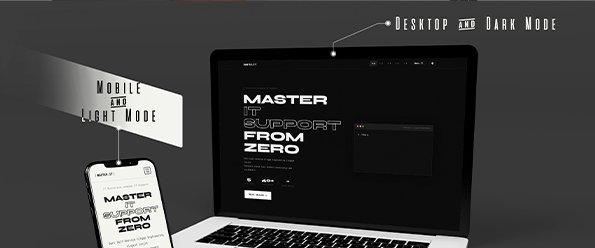
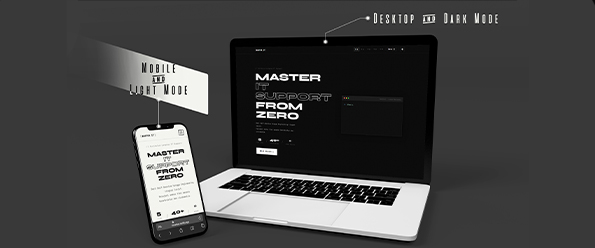
Add project from gdrive

diff --git a/src/data/projects.js b/src/data/projects.js
@@ -10,6 +10,7 @@ export const projects = [
     categories: ["Data Analyst", "Data Visualization"],
     update: "30 April 2026",
     kaggle: "https://shorturl.at/8YAQv",
+    gdrive: "#",
     demoUrl: "#",
     github: "https://portfolio-gia1.vercel.app/",
     behance: "#",
@@ -23,6 +24,7 @@ export const projects = [
     categories: ["Web Development", "Portfolio"],
     update: "04 Mei 2026",
     kaggle:"#",
+    gdrive: "#",
     demoUrl: "https://portfolio-gia1.vercel.app/",
     github: "https://github.com/degia/Portfolio-v1",
     behance: "#",
@@ -36,6 +38,7 @@ export const projects = [
     categories: ["Web Development", "UI/UX", "Portfolio"],
     update: "04 Mei 2026",
     kaggle:"#",
+    gdrive: "#",
     demoUrl: "https://portfolio-gia2.vercel.app/",
     github: "https://github.com/degia/Portfolio-v2",
     behance: "#",
@@ -49,6 +52,7 @@ export const projects = [
     categories: ["Design"],
     update: "04 Mei 2026",
     kaggle:"#",
+    gdrive: "#",
     demoUrl: "#",
     github: "#",
     behance: "https://www.behance.net/nuvista",
@@ -62,21 +66,51 @@ export const projects = [
     categories: ["Design"],
     update: "27 Agustus 2022",
     kaggle:"#",
+    gdrive: "#",
     demoUrl: "#",
     github: "#",
     behance: "https://www.behance.net/gallery/151315845/Logo-Design-Selection-(Self-Project)",
   },
   {
     id: 6,
-    title: "WebApps. MIT - Master.IT",
-    description: "IT Maniac is a comprehensive, free educational platform focused on technology career development. It provides structured learning paths for individuals aiming to build careers in IT Support, Computer Networking, and Data Science.",
+    title: "MIT - Master.IT",
+    description: "IT Maniac is a comprehensive, free educational platform focused on technology career development.",
     image: "/projects/web_itmaniac.jpg",
     tags: ["Tailwindcss", "Css", "Js", "Html"],
     categories: ["Web Development", "UI/UX"],
     update: "17 Mei 2026",
     kaggle:"#",
+    gdrive: "#",
     demoUrl: "https://itmaniac.netlify.app/",
     github: "https://github.com/degia/itsupport_weblearn",
+    behance: "#",
+  },
+  {
+    id: 7,
+    title: "Personal Wealth Management Dashboard",
+    description: "The Nuvista Personal Wealth, Expenses & Income Tracker dashboard",
+    image: "/projects/dashboard_pwtracker.jpg",
+    tags: ["Excel", "Power Query"],
+    categories: ["Data Analyst", "Data Visualization"],
+    update: "30 April 2026",
+    kaggle: "#",
+    gdrive: "https://bit.ly/gdrivefiles-excel2",
+    demoUrl: "#",
+    github: "#",
+    behance: "#",
+  },
+  {
+    id: 8,
+    title: "NuvistaTrade Analytics Dashboard",
+    description: "This dashboard serves not only as a log but also as a decision-making tool",
+    image: "/projects/dashboard_tradingmonidoting.jpg",
+    tags: ["Excel", "Power Query"],
+    categories: ["Data Analyst", "Data Visualization"],
+    update: "30 April 2026",
+    kaggle: "#",
+    gdrive: "https://bit.ly/gdrivefiles-excel1",
+    demoUrl: "#",
+    github: "#",
     behance: "#",
   },
   // ... project lainnya

diff --git a/src/components/ProjectsSection.jsx b/src/components/ProjectsSection.jsx
@@ -140,6 +140,24 @@ export const ProjectSection = () => {
                         </a>
                       )}
 
+                      {/* Google Drive */}
+                      {project.gdrive !== "#" && (
+                        <a
+                          href={project.gdrive}
+                          target="_blank"
+                          rel="noopener noreferrer"
+                          className="text-foreground/80 hover:text-primary transition-colors"
+                          aria-label={`Demo ${project.title}`}
+                        >
+                          <img
+                            width="25"
+                            height="25"
+                            src="https://img.icons8.com/color/48/google-drive--v2.png"
+                            alt="google-drive--v2"
+                          />
+                        </a>
+                      )}
+
                       {/* Link Github */}
                       {project.github !== "#" && (
                         <a